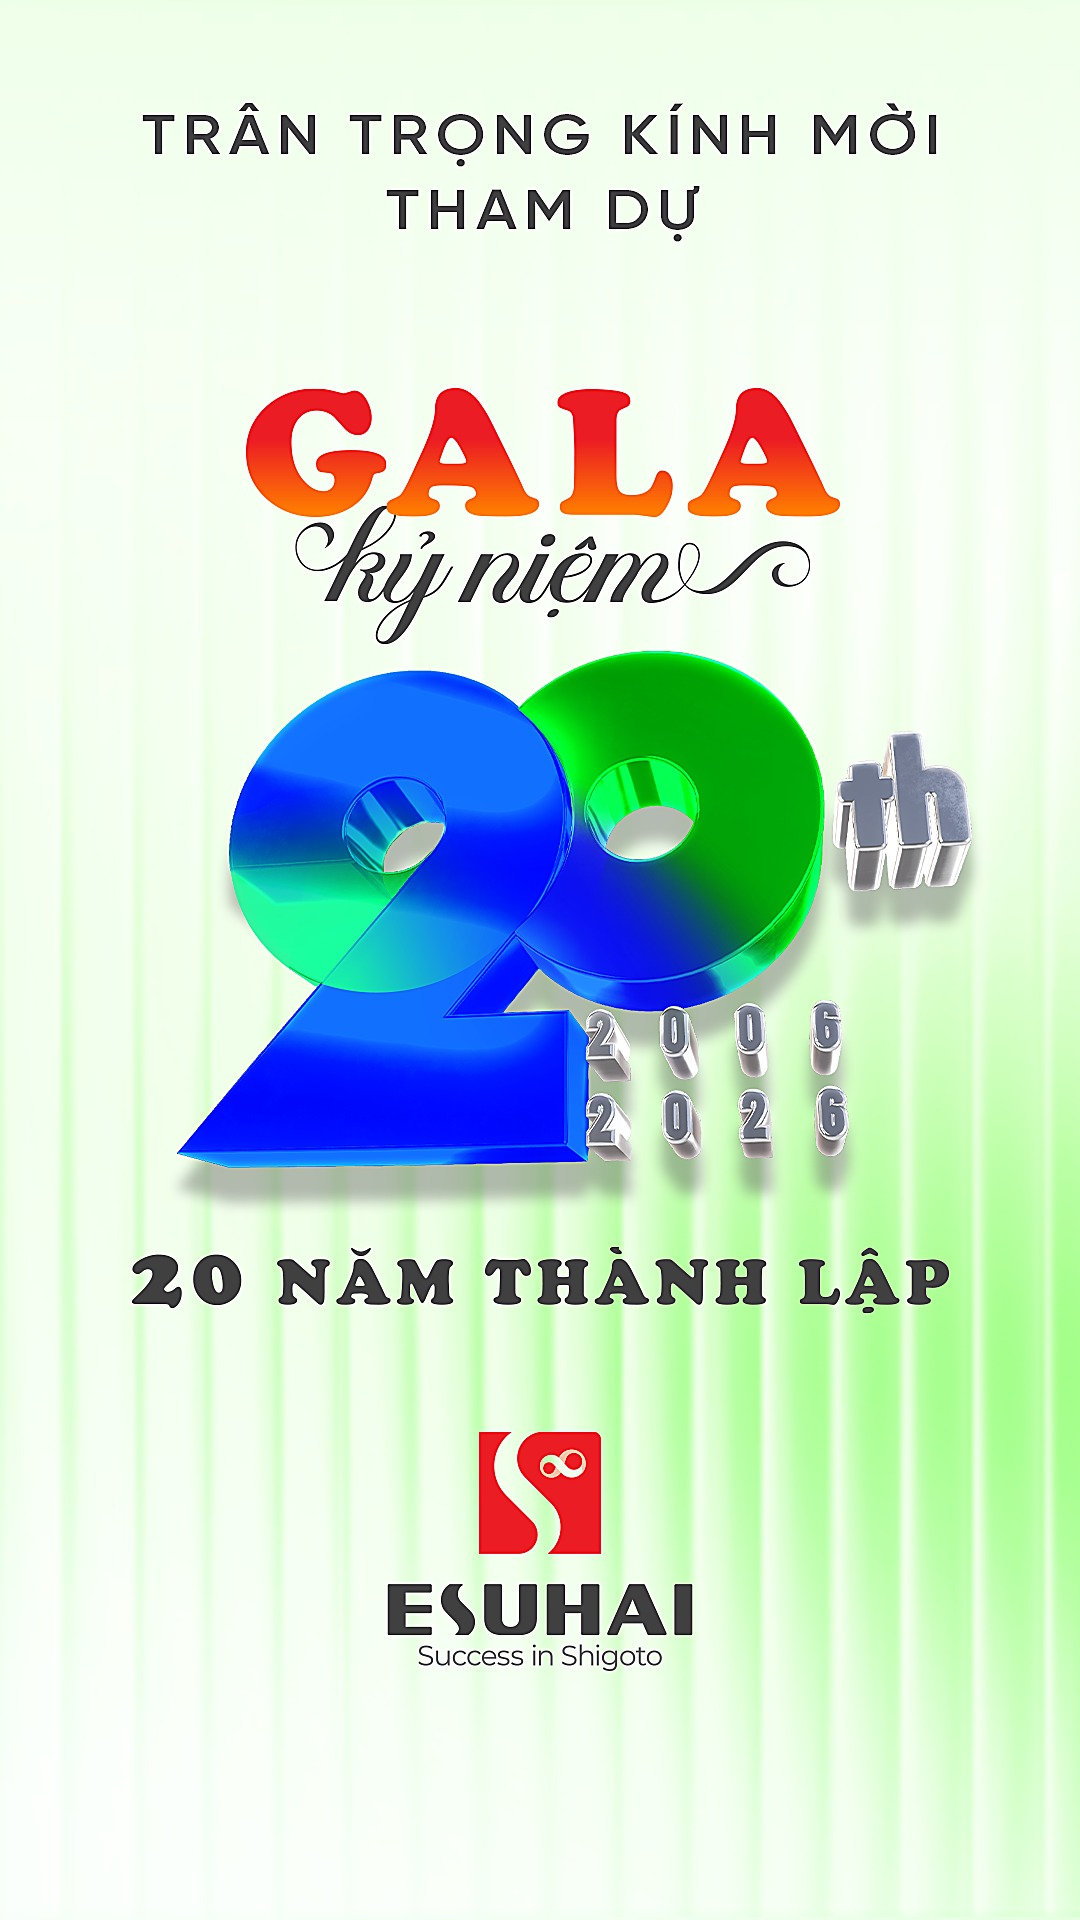
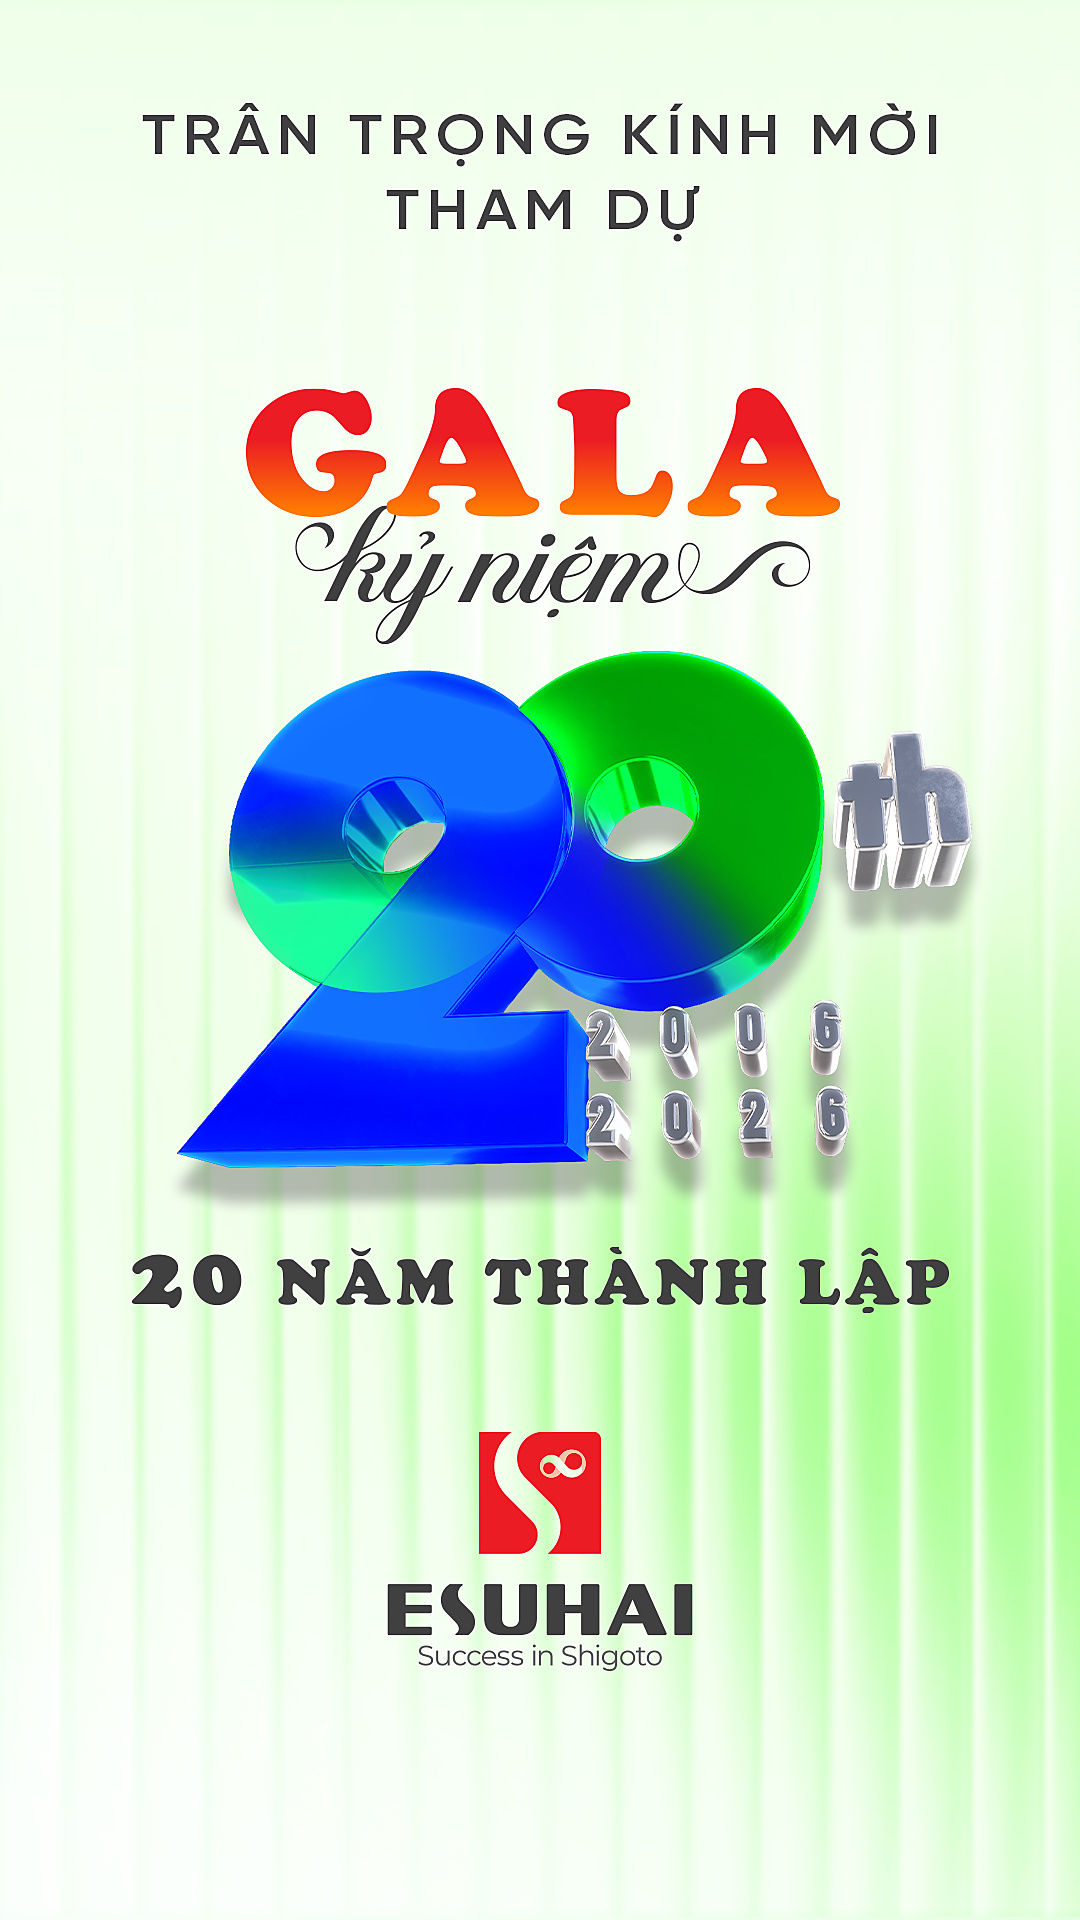
[R0] #3 bìa nét hơn (Q95 4:4:4) + #5 màu chữ vùng sáng dễ đọc + ombre navy hài hoà
#3 BÌA: xuất lại từ nguồn 1080px gốc ở chất lượng 95 + 4:4:4 (nét chữ) + unsharp nhẹ.
   (LƯU Ý: bản Pages cho mọi người còn ảnh CŨ — cần push để bìa HD lên điện thoại.)
#5 ĐỌC CHỮ + OMBRE:
   • Vùng thesis (#chuongtrinh) giữ nền SÁNG nhưng chữ đổi TỐI thanh lịch (eyebrow
     nâu-vàng, tiêu đề xanh rêu đậm, chữ dẫn xám-lục, 3 trụ cột thành thẻ trắng mờ
     chữ tối) → dễ đọc + hài hoà "thiệp sáng".
   • Ombre chỉnh: sáng (bìa+thesis) → chuyển nhanh → tối dần → NAVY đậm ở chân trang,
     khớp tông navy khung mở thư bên trong (không lạc quẻ); sao lấp lánh hiện ở phần tối.

Giữ nguyên (luật R0): form, collect(), payload, honeypot, /api/rsvp.

diff --git a/dang-ky.html b/dang-ky.html
@@ -26,7 +26,7 @@
   *{box-sizing:border-box}
   html{scroll-behavior:smooth}
   body{
-    margin:0;font-family:var(--sans);color:var(--cream);background:linear-gradient(180deg,#eefde8 0,#e7f6db 500px,#c8e4bd 960px,#9ecaa4 1450px,#6fa98d 2000px,#4a8672 2600px,#316a60 3250px,#20544f 3950px,#143f3f 4700px,#0c3236 5500px,#061a2b 6400px) no-repeat #061a2b;
+    margin:0;font-family:var(--sans);color:var(--cream);background:linear-gradient(180deg,#eef9e3 0,#e7f4da 620px,#dcefce 1250px,#cbe6bf 1680px,#8fbf9e 1880px,#4c8672 2080px,#2f6a5f 2450px,#1f524e 3050px,#164340 3800px,#0e3538 4700px,#0b2f35 5600px,#061a2b 6600px) no-repeat #061a2b;
     line-height:1.62;-webkit-font-smoothing:antialiased;text-rendering:optimizeLegibility;overflow-x:hidden;
   }
   body::before{
@@ -926,7 +926,7 @@
   @media(max-width:430px){.topbar .rlink{font-size:.56rem;letter-spacing:.04em}}
   /* TÔNG NAVY thương hiệu — CHỈ trang tiec-toi (body.gala-only) */
   body.gala-only{--mint:#15E77E}
-  body.gala-only{background:linear-gradient(180deg,#eefde8 0,#e7f6db 500px,#c8e4bd 960px,#9ecaa4 1450px,#5f9f8f 2000px,#2f8378 2600px,#1f6a70 3250px,#175a6e 3950px,#124f62 4700px,#0e3d55 5500px,#0b2d4e 6300px,#0a1f3d 7100px) no-repeat #0a1b3a !important}
+  body.gala-only{background:linear-gradient(180deg,#eef9e3 0,#e7f4da 620px,#dcefce 1250px,#cbe6bf 1680px,#83b8b0 1880px,#2f8378 2080px,#1f6a70 2450px,#175a6e 3050px,#124f62 3800px,#0e3d55 4700px,#0b2d4e 5700px,#0a1f3d 6700px) no-repeat #0a1b3a !important}
   body.gala-only .intro-gate{background:radial-gradient(circle at 50% 45%, rgba(242,208,134,.14), transparent 40%), radial-gradient(135% 106% at 50% 40%, #123f5e 0%, #0d2c4a 46%, #0a1f3d 72%, #08152b 100%) !important}
   body.gala-only .act.gala .act-tag{color:#f0623f}
   body.gala-only .act.gala .act-tag .dot{background:#e8452a;box-shadow:0 0 12px rgba(232,69,42,.6)}
@@ -943,6 +943,16 @@
   .cover-actions{position:absolute;left:0;right:0;bottom:4.5%;display:flex;gap:8px;padding:0 5.5%;justify-content:center;z-index:2}
   .cover-actions .btn{flex:1;min-width:0;font-size:.78rem;padding:9px 6px;justify-content:center;text-align:center;white-space:nowrap}
   .cover-actions .btn-ghost{background:rgba(255,255,255,.75);border:1px solid #2f7862;color:#184a44}
+
+  /* ===== R0 · #5 màu chữ vùng nền SÁNG (thesis) — dễ đọc + hài hoà ===== */
+  #chuongtrinh .eyebrow{color:#9a7526}
+  #chuongtrinh .lead h2{color:#163d36}
+  #chuongtrinh .lead h2 em,#chuongtrinh .shimmer-text{color:#a67c2a;-webkit-text-fill-color:#a67c2a;background:none;animation:none}
+  #chuongtrinh .lead .quote{color:#3f5349}
+  #chuongtrinh .pill{background:rgba(255,255,255,.55);border-color:rgba(28,74,62,.22)}
+  #chuongtrinh .pill h3{color:#163d36}
+  #chuongtrinh .pill p{color:#43574c}
+  #chuongtrinh .pill .ic{color:#2c7d5c}
 </style>
 </head>
 <body class="gate-lock">

diff --git a/tiec-toi.html b/tiec-toi.html
@@ -26,7 +26,7 @@
   *{box-sizing:border-box}
   html{scroll-behavior:smooth}
   body{
-    margin:0;font-family:var(--sans);color:var(--cream);background:linear-gradient(180deg,#eefde8 0,#e7f6db 500px,#c8e4bd 960px,#9ecaa4 1450px,#6fa98d 2000px,#4a8672 2600px,#316a60 3250px,#20544f 3950px,#143f3f 4700px,#0c3236 5500px,#061a2b 6400px) no-repeat #061a2b;
+    margin:0;font-family:var(--sans);color:var(--cream);background:linear-gradient(180deg,#eef9e3 0,#e7f4da 620px,#dcefce 1250px,#cbe6bf 1680px,#8fbf9e 1880px,#4c8672 2080px,#2f6a5f 2450px,#1f524e 3050px,#164340 3800px,#0e3538 4700px,#0b2f35 5600px,#061a2b 6600px) no-repeat #061a2b;
     line-height:1.62;-webkit-font-smoothing:antialiased;text-rendering:optimizeLegibility;overflow-x:hidden;
   }
   body::before{
@@ -926,7 +926,7 @@
   @media(max-width:430px){.topbar .rlink{font-size:.56rem;letter-spacing:.04em}}
   /* TÔNG NAVY thương hiệu — CHỈ trang tiec-toi (body.gala-only) */
   body.gala-only{--mint:#15E77E}
-  body.gala-only{background:linear-gradient(180deg,#eefde8 0,#e7f6db 500px,#c8e4bd 960px,#9ecaa4 1450px,#5f9f8f 2000px,#2f8378 2600px,#1f6a70 3250px,#175a6e 3950px,#124f62 4700px,#0e3d55 5500px,#0b2d4e 6300px,#0a1f3d 7100px) no-repeat #0a1b3a !important}
+  body.gala-only{background:linear-gradient(180deg,#eef9e3 0,#e7f4da 620px,#dcefce 1250px,#cbe6bf 1680px,#83b8b0 1880px,#2f8378 2080px,#1f6a70 2450px,#175a6e 3050px,#124f62 3800px,#0e3d55 4700px,#0b2d4e 5700px,#0a1f3d 6700px) no-repeat #0a1b3a !important}
   body.gala-only .intro-gate{background:radial-gradient(circle at 50% 45%, rgba(242,208,134,.14), transparent 40%), radial-gradient(135% 106% at 50% 40%, #123f5e 0%, #0d2c4a 46%, #0a1f3d 72%, #08152b 100%) !important}
   body.gala-only .act.gala .act-tag{color:#f0623f}
   body.gala-only .act.gala .act-tag .dot{background:#e8452a;box-shadow:0 0 12px rgba(232,69,42,.6)}
@@ -943,6 +943,16 @@
   .cover-actions{position:absolute;left:0;right:0;bottom:4.5%;display:flex;gap:8px;padding:0 5.5%;justify-content:center;z-index:2}
   .cover-actions .btn{flex:1;min-width:0;font-size:.78rem;padding:9px 6px;justify-content:center;text-align:center;white-space:nowrap}
   .cover-actions .btn-ghost{background:rgba(255,255,255,.75);border:1px solid #2f7862;color:#184a44}
+
+  /* ===== R0 · #5 màu chữ vùng nền SÁNG (thesis) — dễ đọc + hài hoà ===== */
+  #chuongtrinh .eyebrow{color:#9a7526}
+  #chuongtrinh .lead h2{color:#163d36}
+  #chuongtrinh .lead h2 em,#chuongtrinh .shimmer-text{color:#a67c2a;-webkit-text-fill-color:#a67c2a;background:none;animation:none}
+  #chuongtrinh .lead .quote{color:#3f5349}
+  #chuongtrinh .pill{background:rgba(255,255,255,.55);border-color:rgba(28,74,62,.22)}
+  #chuongtrinh .pill h3{color:#163d36}
+  #chuongtrinh .pill p{color:#43574c}
+  #chuongtrinh .pill .ic{color:#2c7d5c}
 </style>
 </head>
 <body class="gate-lock">
